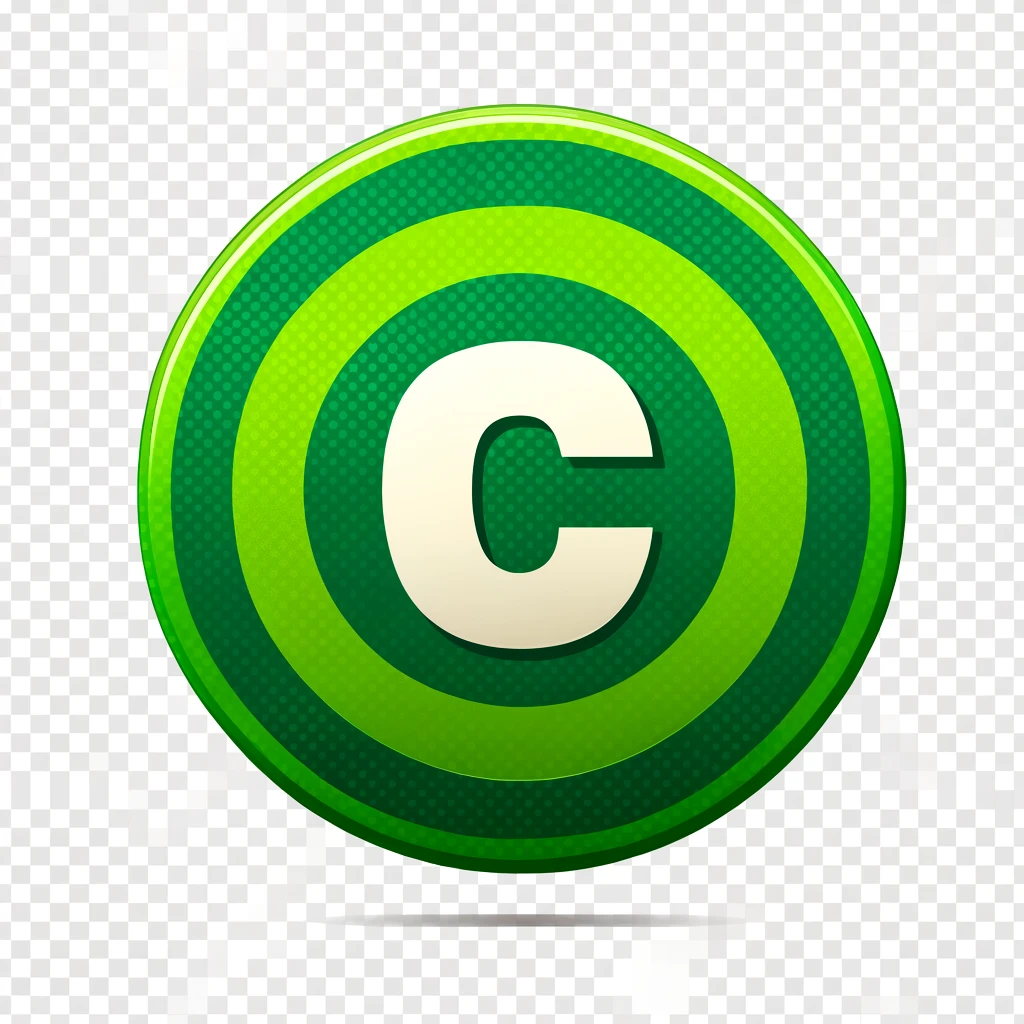
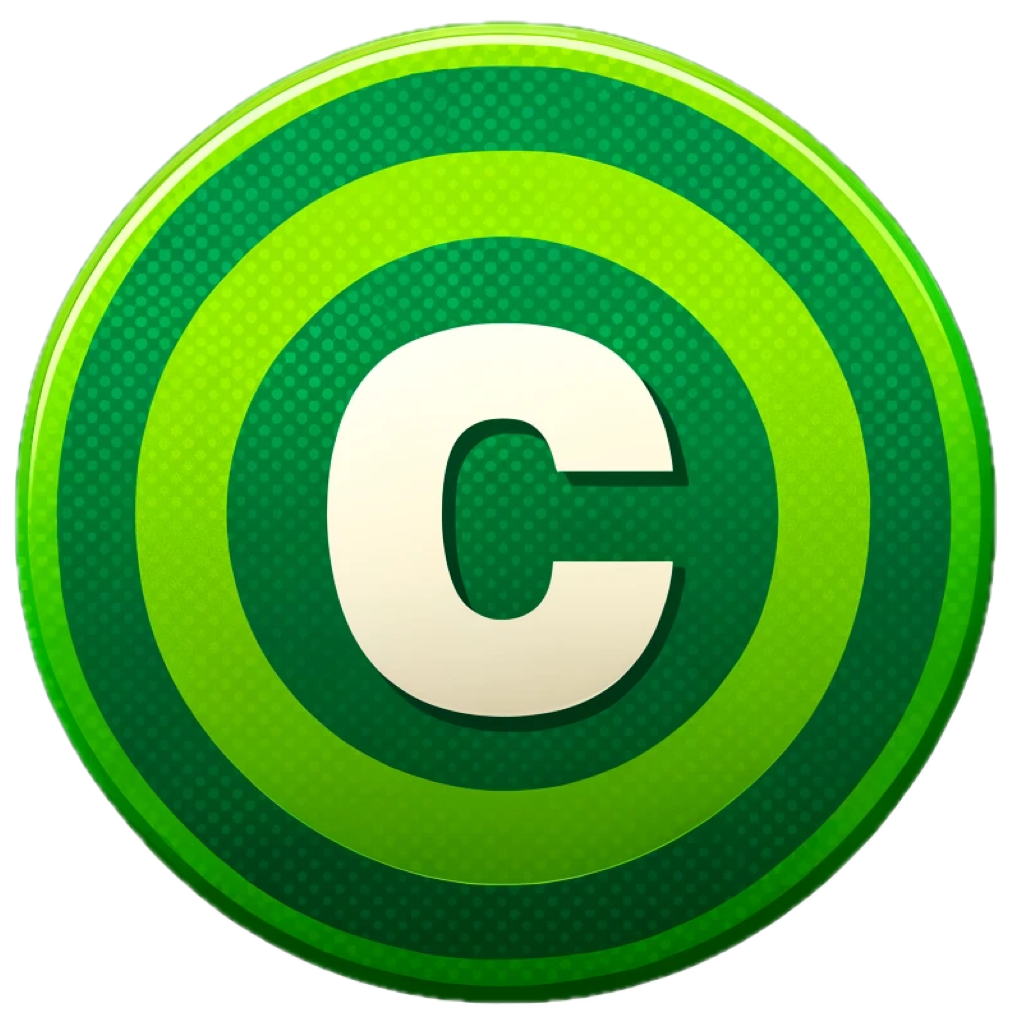
Update game assets and functionality
- Updated disk images for better visual distinction.
- Enhanced game.js with improved scoring logic and dynamic answer display.
- Modified style.css for improved UI responsiveness and aesthetics.

diff --git a/videogame/shoot-the-answer-FA/game.js b/videogame/shoot-the-answer-FA/game.js
@@ -10,7 +10,9 @@ let attemptsUsed = 0;           // Intentos usados en la pregunta actual
 
 function initializeGameScreen() {
     document.getElementById('startScreen').style.display = 'none';  // Ocultar la pantalla de inicio
-    document.getElementById('gameScreen').style.display = 'block';  // Mostrar la pantalla del juego
+    document.getElementById('gameScreen').style.display = 'flex';  // Mostrar la pantalla del juego
+    document.getElementById('gameScreen').style.backgroundImage = `url('assets/backgrounds/${selectedTheme}.png')`;
+    document.getElementById('gameScreen').style.backgroundSize = 'cover';
     updateScoreDisplay();  // Asegúrate de que el puntaje inicial se muestre correctamente
 }
 
@@ -73,26 +75,69 @@ function loadQuestions(theme) {
     });
 }
 
-function displayQuestion(index) {
-    const question = questions[index];
-    const questionContainer = document.getElementById('questionContainer');
-    questionContainer.innerHTML = `<h4>${question.question}</h4>`; // Muestra la pregunta
-    const optionsDiv = document.createElement('div');
-    optionsDiv.className = 'options';
+// Agregar a la función displayQuestion()
+function displayQuestion(currentQuestionIndex) {
+    let question = questions[currentQuestionIndex];
+    document.getElementById('questionText').textContent = question.question;
+    const floatingAnswersContainer = document.getElementById('floatingAnswers');
+    const staticAnswersContainer = document.getElementById('answers');
+    
+    floatingAnswersContainer.innerHTML = ''; // Limpiar respuestas flotantes anteriores
+    staticAnswersContainer.innerHTML = '';   // Limpiar respuestas estáticas anteriores
 
-    question.options.forEach((option, idx) => {
-        const optionButton = document.createElement('button');
-        optionButton.className = 'btn btn-info m-2';
-        optionButton.innerText = option;
-        optionButton.onclick = () => handleAnswer(idx, question.answer);
-        optionsDiv.appendChild(optionButton);
+    question.options.forEach((option, index) => {
+        let staticAnswer = document.createElement('div');
+        staticAnswer.innerHTML = `<strong>${String.fromCharCode(65 + index)}:</strong> ${option}`;
+        staticAnswersContainer.appendChild(staticAnswer);
+
+        let floatingAnswer = document.createElement('button');
+        let backgroundUrl = `assets/disks/${String.fromCharCode(65 + index)}.png`;
+        floatingAnswer.style.backgroundImage = `url('${backgroundUrl}' ) `;
+        floatingAnswer.style.backgroundSize = 'contain';
+        floatingAnswer.style.backgroundPosition = 'center';
+        floatingAnswer.className = `floating-answer btn btn-circle color-${index + 1}`;
+        floatingAnswer.style.display = 'none';
+        floatingAnswersContainer.appendChild(floatingAnswer);
+        moveDiskRandomly(floatingAnswer);
+        floatingAnswer.addEventListener('click', () => handleAnswer(index, question.answer));
     });
-
-    questionContainer.appendChild(optionsDiv);
-    attemptsLeft = 3;  // Restablecer los intentos para la nueva pregunta
-    attemptsUsed = 0;  // Restablecer los intentos usados
 }
 
+// Actualizar la función moveDiskRandomly() para ajustar los nuevos elementos flotantes
+function moveDiskRandomly(answer) {
+    const floatingAnswersContainer = document.getElementById('floatingAnswers');
+    let { newX, newY } = calculatePositions(floatingAnswersContainer, answer);
+    answer.style.left = `${newX}px`;
+    answer.style.top = `${newY}px`;
+    answer.style.display = 'block';
+    setInterval(() => {
+        let { newX, newY } = calculatePositions(floatingAnswersContainer, answer);
+        answer.style.left = `${newX}px`;
+        answer.style.top = `${newY}px`;
+    }, 2000);
+}
+
+function calculatePositions(container, disk) {
+    let maxX = container.clientWidth - disk.offsetWidth;
+    let maxY = container.clientHeight - disk.offsetHeight;
+    let newX, newY, valid;
+
+    do {
+        newX = Math.random() * maxX;
+        newY = Math.random() * maxY;
+        valid = true;
+
+        // Revisar colisiones con otros discos
+        Array.from(container.children).forEach(other => {
+            if (other !== disk) {
+                let distance = Math.sqrt(Math.pow(newX - parseFloat(other.style.left), 2) + Math.pow(newY - parseFloat(other.style.top), 2));
+                if (distance < disk.offsetWidth) valid = false;  // Considerar ajustar esta lógica de colisión
+            }
+        });
+    } while (!valid);
+
+    return { newX, newY };
+}
 
 
 function handleAnswer(selectedOptionIndex, correctAnswer) {
@@ -142,11 +187,13 @@ function handleAnswer(selectedOptionIndex, correctAnswer) {
 
 function moveToNextQuestion() {
     currentQuestionIndex++;
+    attemptsLeft = 3;
+    attemptsUsed = 0;
     if (currentQuestionIndex < questions.length) {
         displayQuestion(currentQuestionIndex);
     } else {
         console.log('Game Over! Final Score:', score);
-        // Aquí podrías mostrar un resumen del juego o redirigir a una pantalla de resultados
+        endGame();
     }
 }
 
@@ -154,6 +201,8 @@ function moveToNextQuestion() {
 
 // Función para verificar la respuesta
 function checkAnswer(correctAnswer, selectedOptionIndex) {
+    console.log('Selected option:', selectedOptionIndex);
+    console.log('Correct answer:', correctAnswer);
     const correctIndex = correctAnswer.charCodeAt(0) - 'A'.charCodeAt(0);
     if (selectedOptionIndex === correctIndex) {
         console.log('Correct answer!');
@@ -170,3 +219,18 @@ document.getElementById('startButton').addEventListener('click', function() {
         initializeGameScreen();
     }
 });
+
+function endGame() {
+    document.getElementById('gameScreen').style.display = 'none'; // Ocultar pantalla de juego
+    document.getElementById('endScreen').style.display = 'block'; // Mostrar pantalla de fin
+    document.getElementById('finalScore').innerText = `Tu puntaje final es: ${score}`;
+}
+
+function restartGame() {
+    document.getElementById('endScreen').style.display = 'none';
+    document.getElementById('startScreen').style.display = 'block';
+    currentQuestionIndex = 0;
+    score = 0;
+    updateScoreDisplay();
+    checkSelections(); // Reactivar botón de inicio si ya se seleccionaron género y tema
+}

diff --git a/videogame/shoot-the-answer-FA/style.css b/videogame/shoot-the-answer-FA/style.css
@@ -26,3 +26,95 @@
     right: 10px;  
     box-shadow: 0 2px 4px rgba(0,0,0,0.1);     
 }
+
+.game-container {
+    position: relative;
+    width: 80vw;
+    height: 80vh;
+    margin: 10vh auto; /* Centrado con altura variable */
+    border: 1px solid #ccc;
+    background-size: cover;
+    display: flex;
+    flex-direction: column;
+}
+
+#header {
+    flex-grow: 0;
+    text-align: right;
+    padding: 10px;
+    width: 100%;
+    background-color: rgba(0, 0, 0, 0.5);
+    color: white;
+}
+
+#score {
+    font-size: 24px;
+    font-weight: bold;
+}
+
+.questions-container {
+    flex-grow: 1;
+    display: flex;
+    flex-direction: column;
+}
+
+.static-answers {
+    flex: 20%;
+    padding: 10px;
+}
+
+#answers div {
+    display: inline-block; /* Visualización en línea de las respuestas estáticas */
+    margin: 0 5px;
+    padding: 5px;
+    background-color: #f1f1f1;
+    border-radius: 5px;
+}
+
+.floating-answers {
+    flex: 80%;
+    position: relative;
+    overflow: hidden;
+}
+
+.floating-answer {
+    width: 100px;
+    height: 100px;
+    line-height: 100px;  
+    border-radius: 50%;  
+    text-align: center;
+    position: absolute;  
+    font-size: 16px; 
+    color: white;
+    border: 2px solid white; 
+    transition: transform 0.5s ease;
+    display: flex;
+    justify-content: center;
+    align-items: center;
+    overflow: hidden;
+}
+
+
+.color-1 { background-color: #ff6384; }
+.color-2 { background-color: #36a2eb; }
+.color-3 { background-color: #4bc0c0; }
+.color-4 { background-color: #ffcd56; }
+
+.static-answers {
+    flex: 20%;
+    background-color: #f8f9fa;
+    padding: 10px;
+    overflow-y: auto;
+    border-top: 1px solid #dee2e6;
+}
+
+.questions-container {
+    display: flex;
+    flex-direction: column;
+    height: 100%;
+}
+
+#answers div {
+    margin-bottom: 5px;
+}
+

diff --git a/videogame/shoot-the-answer-FA/index.html b/videogame/shoot-the-answer-FA/index.html
@@ -26,12 +26,28 @@
             
         </div>
         <!-- Aquí se cargará la pantalla de juego una vez que se inicie -->
-        <div id="gameScreen" class="game-screen" style="display: none;">
-            <div id="scoreBoard" class="score-board">
-                Puntaje: <span id="score">0</span>
+        <div id="gameScreen" class="game-container" style="display: none;">
+            <div id="header">
+                <span id="score">Puntaje: 0</span>
             </div>
-            <div id="questionContainer"></div> <!-- Contenedor exclusivo para preguntas -->
+            <div id="questionsContainer" class="questions-container">
+                <div id="floatingAnswers" class="floating-answers">
+                    <!-- Los botones flotantes se generarán y moverán aquí -->
+                </div>
+                <div id="staticAnswers" class="static-answers">
+                    <p id="questionText"></p>
+                    <div id="answers">
+                        <!-- Respuestas estáticas A, B, C, D para visualización -->
+                    </div>
+                </div>
+            </div>
         </div>
+        <div id="endScreen" class="text-center" style="display: none;">
+            <h1>Juego Terminado</h1>
+            <p id="finalScore"></p>
+            <button class="btn btn-primary" onclick="restartGame()">Reiniciar Juego</button>
+        </div>
+        
         
     </div>
     <script src="game.js"></script>
